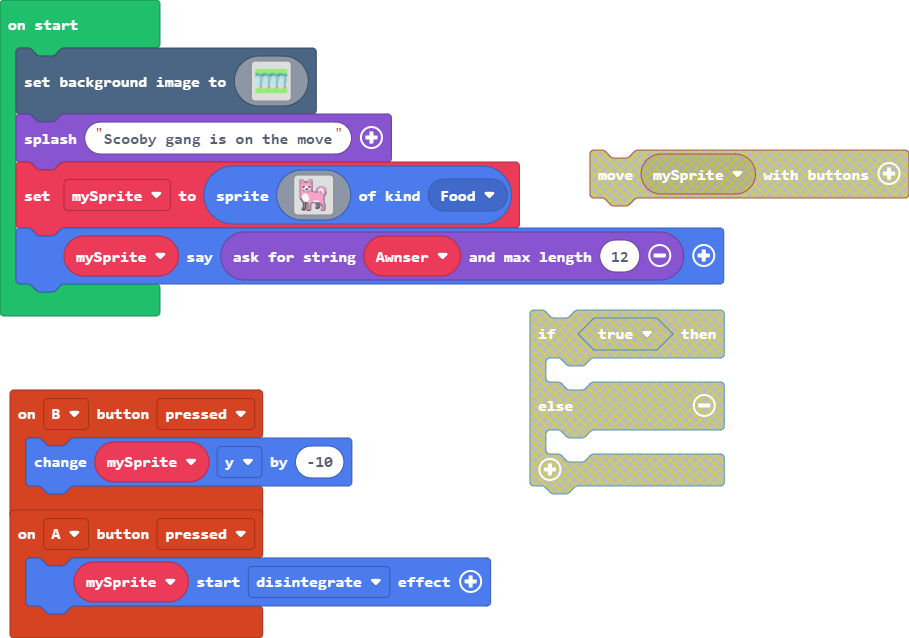
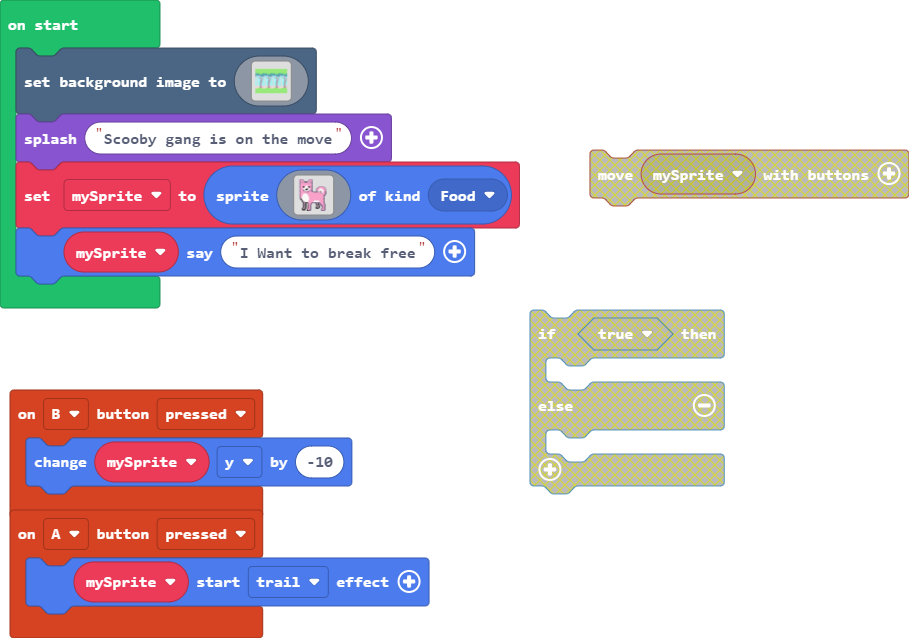
Update main.blocks, main.ts

Changed region(s): [[0.0, 0.3574, 0.8009, 0.5063], [0.2772, 0.8636, 0.5545, 0.953]]

diff --git a/main.ts b/main.ts
@@ -2,9 +2,8 @@ controller.B.onEvent(ControllerButtonEvent.Pressed, function () {
     mySprite.y += -10
 })
 controller.A.onEvent(ControllerButtonEvent.Pressed, function () {
-    mySprite.startEffect(effects.disintegrate)
+    mySprite.startEffect(effects.trail)
 })
-let Awnser = 0
 let mySprite: Sprite = null
 scene.setBackgroundImage(img`
     7777777777777777777777777777777777777777777777777777777777777777777777777777777777777777777777777777777777777777777777777777777777777777777777777777777777777777
@@ -130,4 +129,4 @@ scene.setBackgroundImage(img`
     `)
 game.splash("Scooby gang is on the move")
 mySprite = sprites.create(assets.image`Scooby SNAXX`, SpriteKind.Food)
-mySprite.say(game.askForString(Awnser, 12))
+mySprite.say("I Want to break free")
